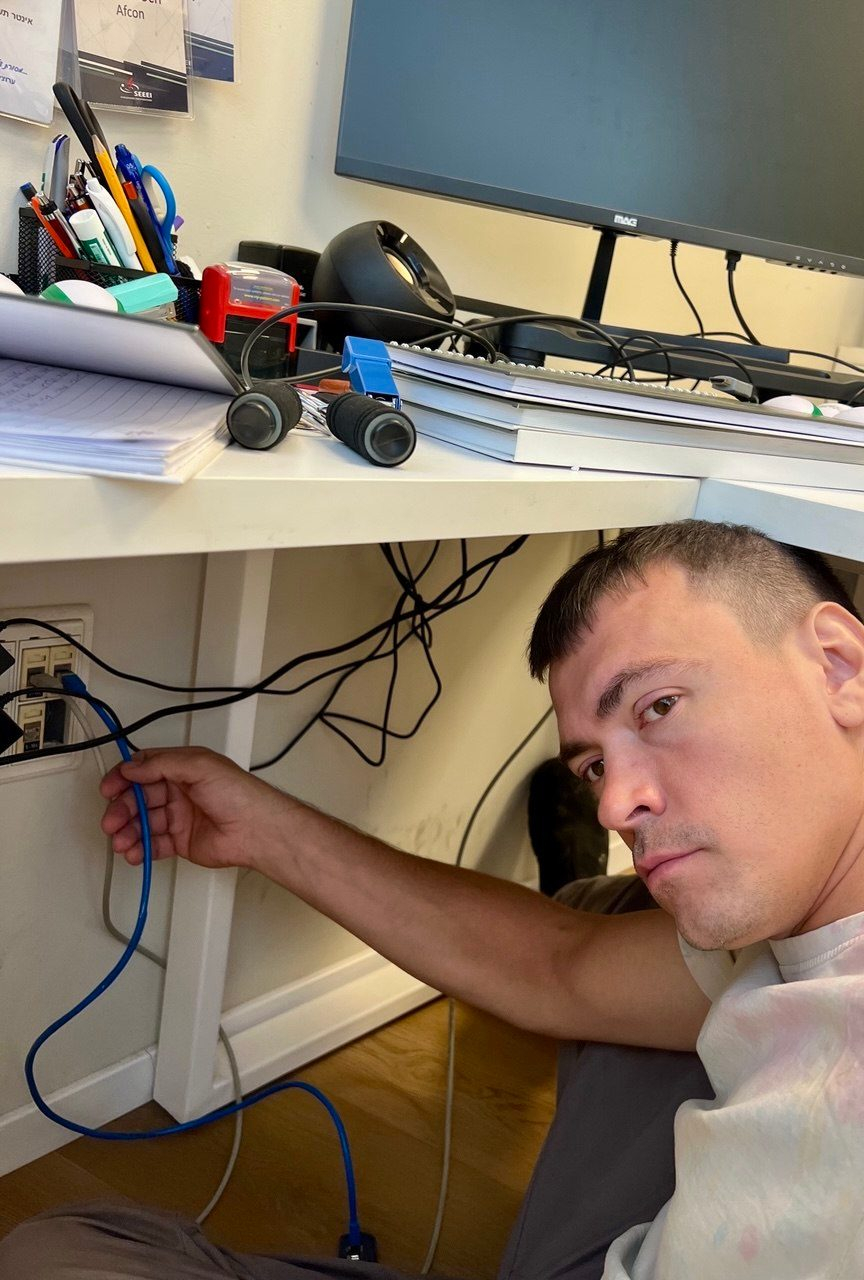
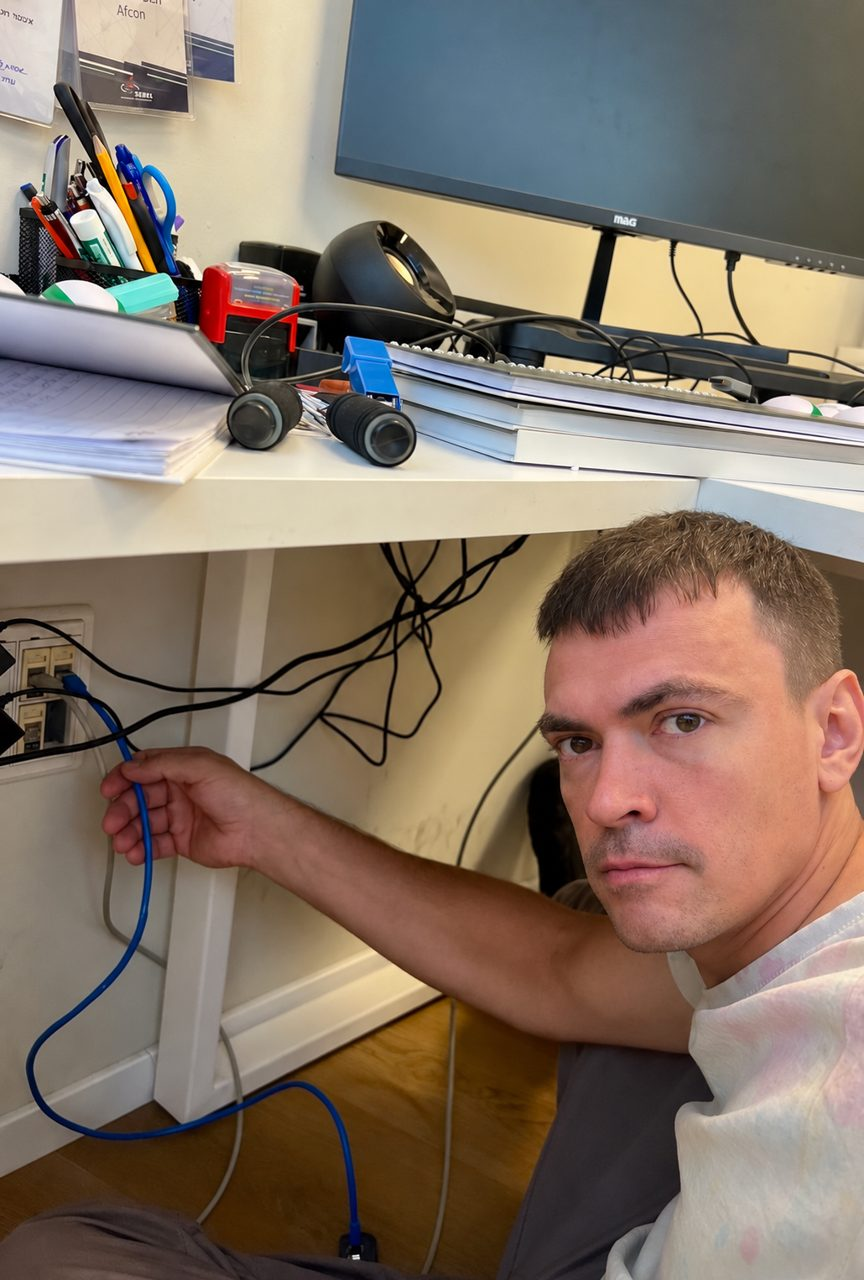
Replace office-2 photo (upright head), keep outlet visible

diff --git a/index.html b/index.html
@@ -24,7 +24,7 @@
 <div class="gallery fib"><img src="images/fiber-1.jpg" alt="Single-mode fiber cable end, ITU-T G.652.D"><img src="images/fiber-2.jpg" alt="Fusion splicer and cleavers at a patch panel"><img src="images/fiber-3.jpg" alt="Fiber patch panel with LC adapters"></div></section>
 <section id="offices" class="sec alt"><div class="head"><span class="num">06</span><h2>Offices &amp; Universities</h2><p>Office and university networks: installation and service.</p>
 <ul class="ticks"><li>Network, printer and phone outlets</li><li>Network cabinet installation</li><li>Warranty service and support</li></ul></div>
-<div class="gallery fib offg"><img src="images/office-1.jpg" alt="Office with a ladder and red network cables from the ceiling"><img src="images/office-2.jpg" alt="Oleg connecting a patch cord to a wall socket under a desk"><img src="images/office-3.jpg" alt="University lab: red cable reels, wall cable tray and desks with PCs" style="object-position:30% 60%"></div></section>
+<div class="gallery fib offg"><img src="images/office-1.jpg" alt="Office with a ladder and red network cables from the ceiling"><img src="images/office-2.jpg" alt="Oleg connecting a patch cord to a wall socket under a desk" style="object-position:0% 58%"><img src="images/office-3.jpg" alt="University lab: red cable reels, wall cable tray and desks with PCs" style="object-position:30% 60%"></div></section>
 <section id="factories" class="sec"><div class="head"><span class="num">07</span><h2>Factories</h2><p>Factory and plant networks.</p>
 <ul class="ticks"><li>Outlets for production equipment</li><li>CCTV camera cabling</li><li>Replacing old backbone cabling</li></ul></div>
 <div class="gallery fib offg"><img src="images/factory-1.jpg" alt="Oleg at a plant with white silos" style="object-position:30% 50%"><img src="images/factory-2.jpg" alt="Oleg in a red hard hat in a factory warehouse" style="object-position:50% 40%"><img src="images/factory-3.jpg" alt="Scissor lift by a ceiling-mounted camera in a plant" style="object-position:50% 40%"></div></section>
